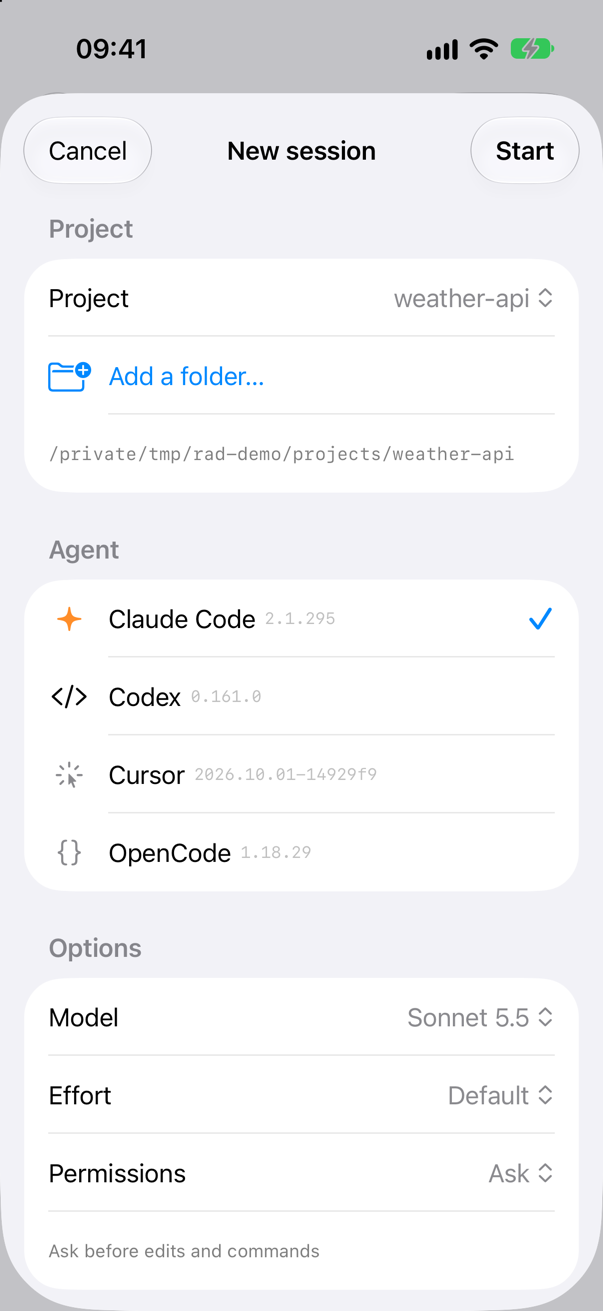
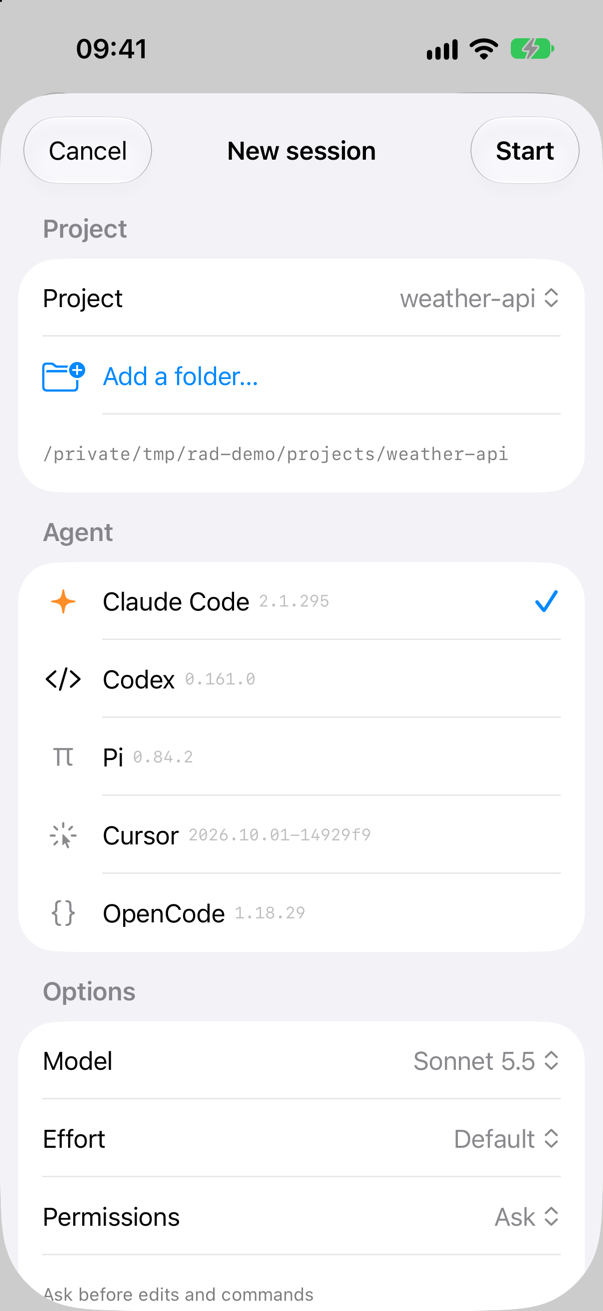
Retake the README screenshots and add two from iPad
The iPhone screenshots predate the compact layout. They are retaken
from real Claude Code, Codex and Cursor sessions on a demo server. Two
iPad screenshots, in a second row, show the sessions sidebar beside an
approval and beside a finished turn.

diff --git a/README.md b/README.md
@@ -18,6 +18,10 @@ Drive coding agents running on your computer from your iPhone or iPad.
   <img src="docs/screenshots/transcript.png" width="19%" alt="A finished turn: tool calls, approvals and the agent's summary">
   <img src="docs/screenshots/diff.png" width="19%" alt="The diff of a file the agent changed">
 </p>
+<p>
+  <img src="docs/screenshots/ipad-approval.png" width="49%" alt="iPad: the server's sessions in a sidebar, and Claude Code asking to edit a file">
+  <img src="docs/screenshots/ipad-transcript.png" width="49%" alt="iPad: a finished turn, with another session waiting for approval in the sidebar">
+</p>
 
 Supported harnesses:
 
